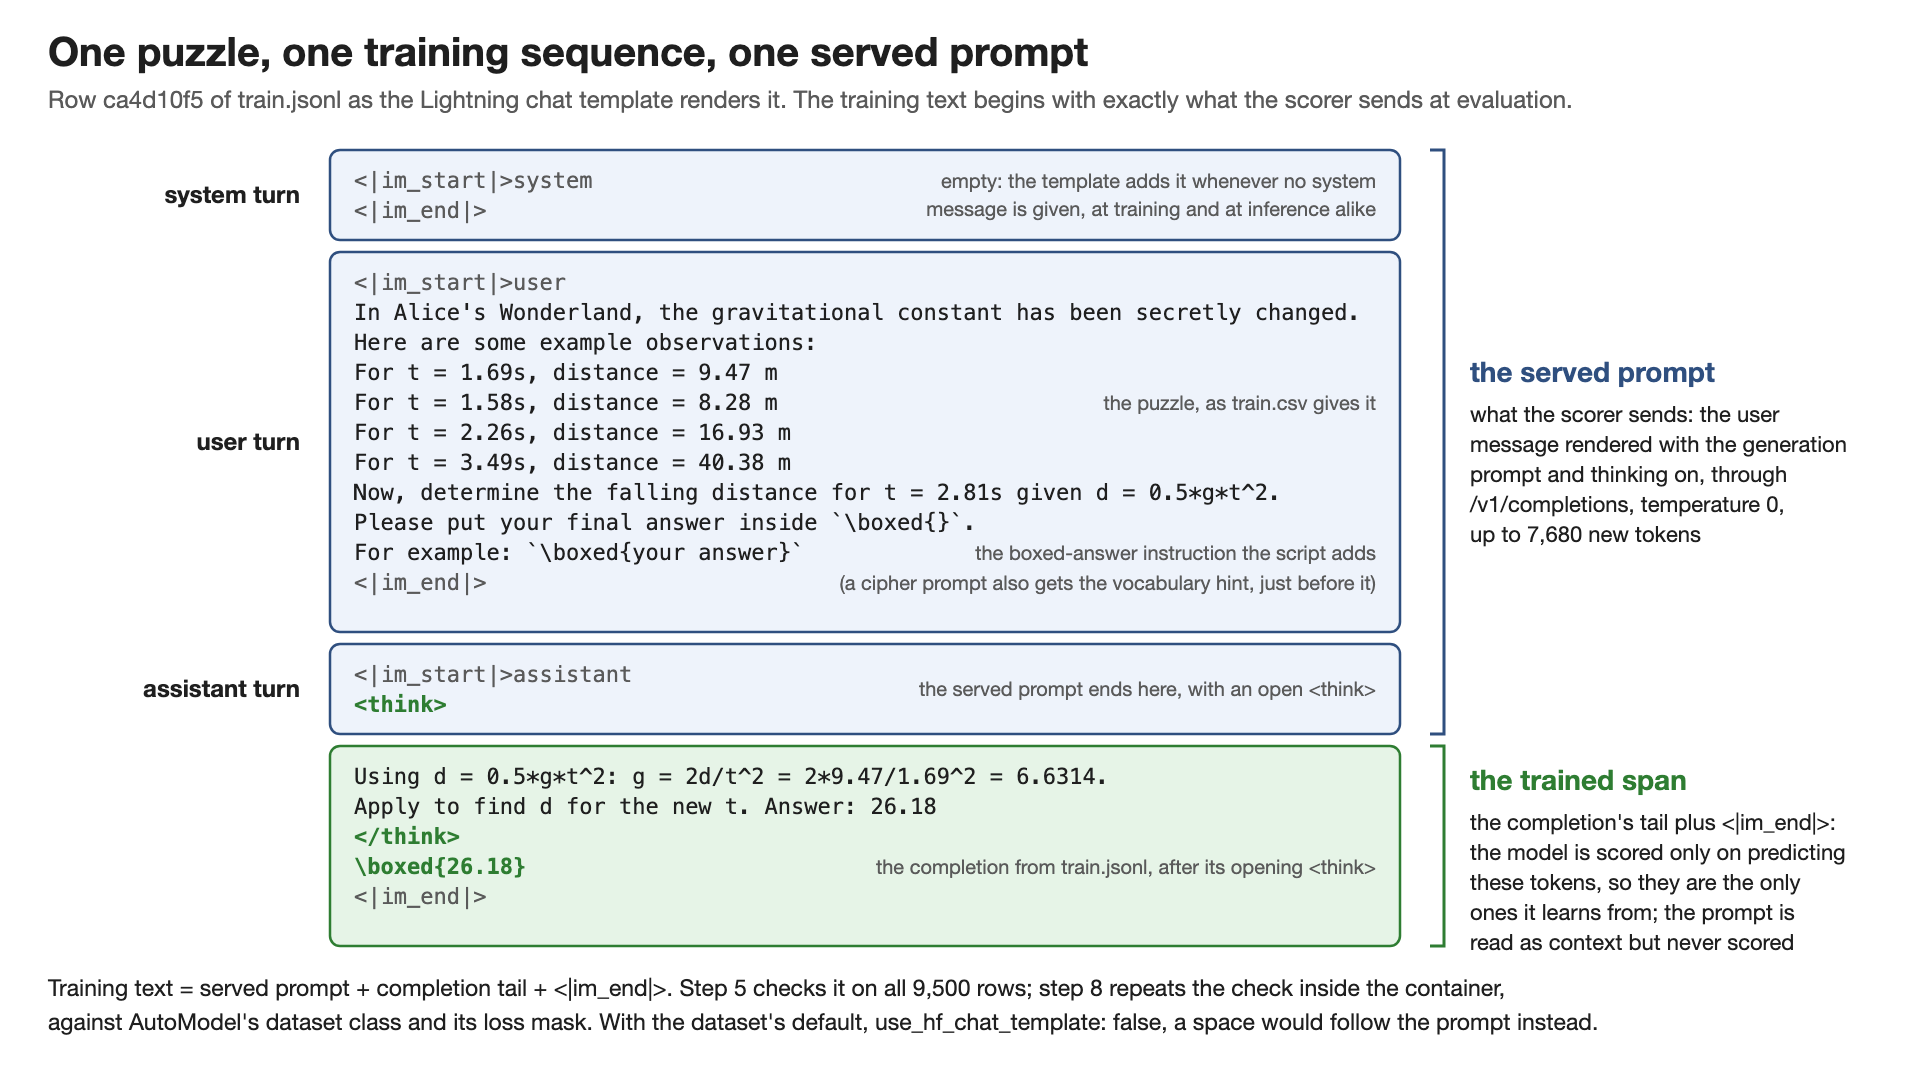
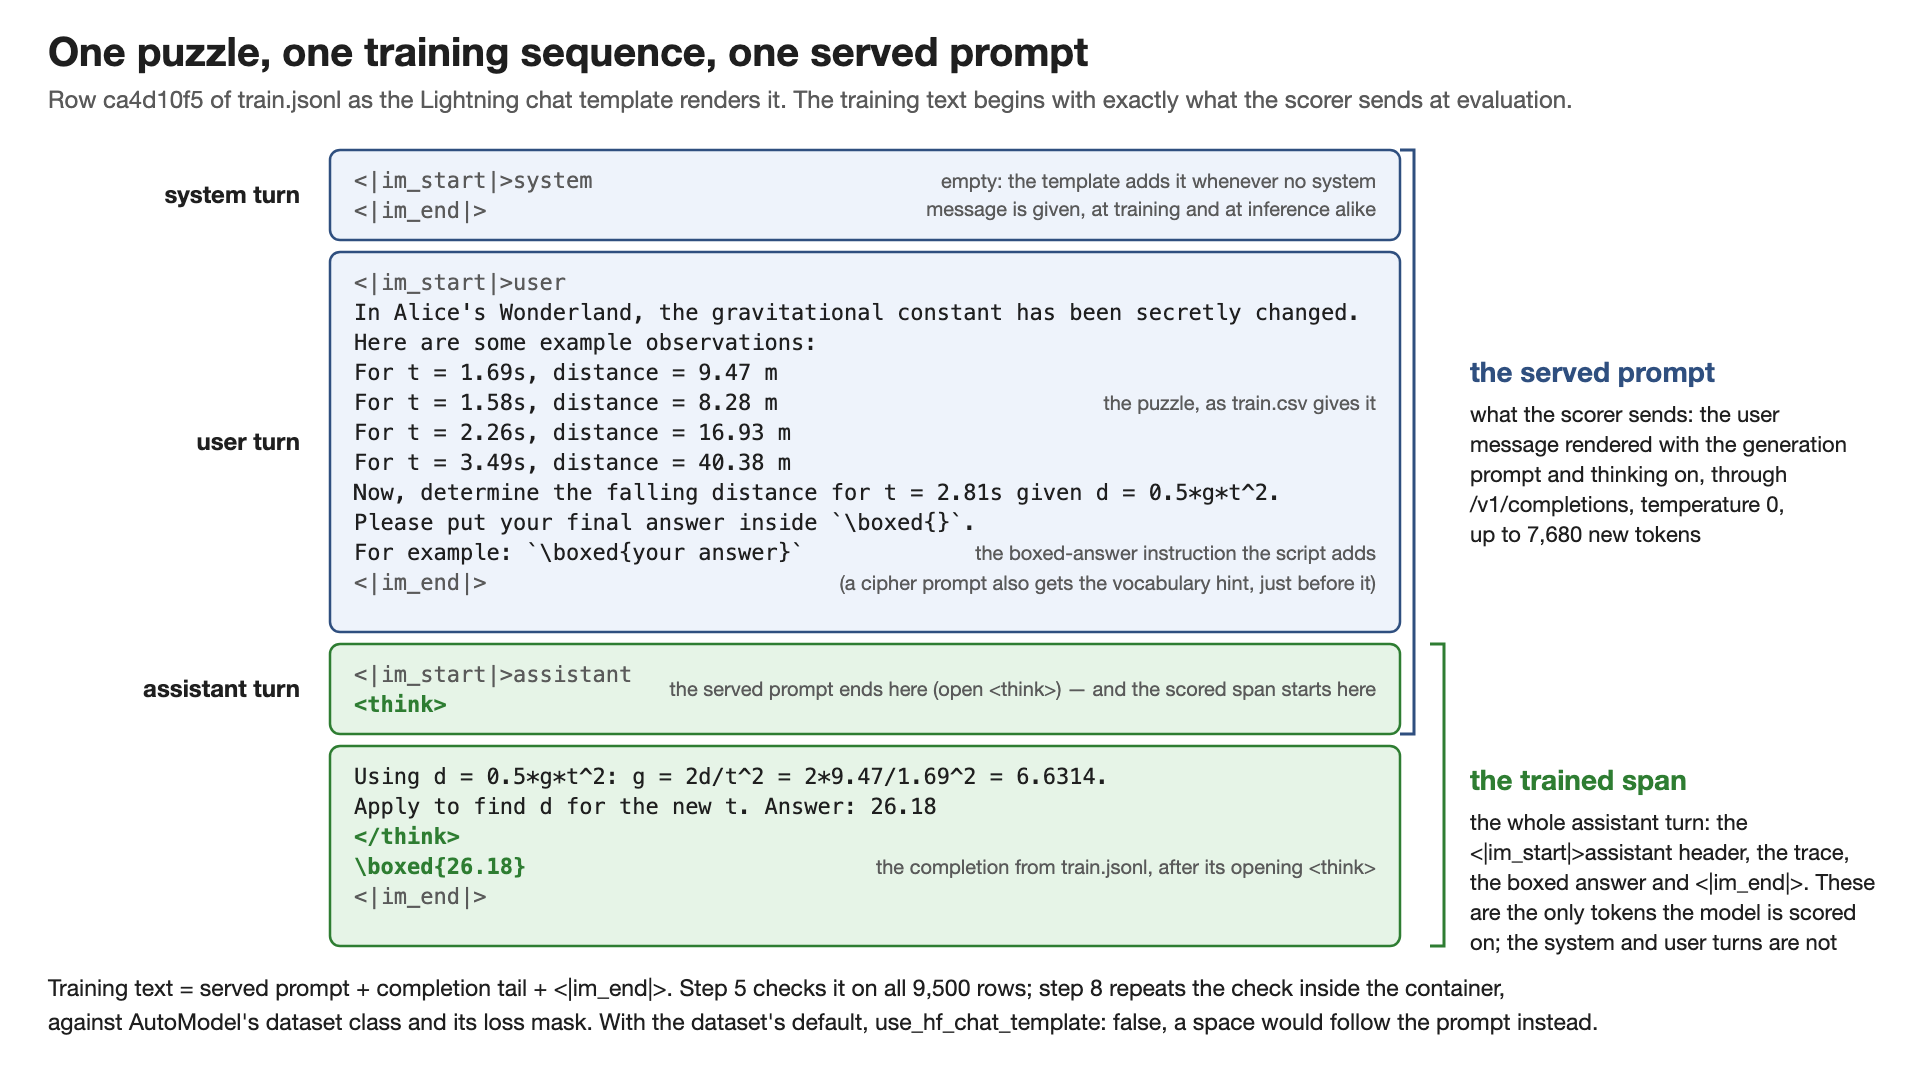
Puzzles README: fill 300-puzzle results, correct loss-span to whole assistant turn, drop step-5 HF login

Changed region(s): [[0.75, 0.7402, 0.9688, 0.8944], [0.3438, 0.586, 0.75, 0.7093]]

diff --git a/experiments/lightning-30b-lora-reasoning-puzzles-dgx-spark/assets/diagrams.py b/experiments/lightning-30b-lora-reasoning-puzzles-dgx-spark/assets/diagrams.py
@@ -149,27 +149,27 @@ def training_sequence():
           note(y2 + 38 + 30 * 9, "the boxed-answer instruction the script adds"),
           note(y2 + 38 + 30 * 10, "(a cipher prompt also gets the vocabulary hint, just before it)")]
     y3 = y2 + 380 + 12
-    b += band(y3, 90, "#eef3fb", BLUE_S, [("<|im_start|>assistant", "tok"), ("<think>", "key")], "assistant turn")
-    b += [note(y3 + 52, "the served prompt ends here, with an open <think>")]
+    b += band(y3, 90, GREEN_F, GREEN_S, [("<|im_start|>assistant", "tok"), ("<think>", "key")], "assistant turn")
+    b += [note(y3 + 52, "the served prompt ends here (open <think>) — and the scored span starts here")]
     y4 = y3 + 90 + 12
     b += band(y4, 200, GREEN_F, GREEN_S, [("Using d = 0.5*g*t^2: g = 2d/t^2 = 2*9.47/1.69^2 = 6.6314.", "text"),
                                           ("Apply to find d for the new t. Answer: 26.18", "text"),
                                           ("</think>", "key"), ("\\boxed{26.18}", "key"), ("<|im_end|>", "tok")], "")
     b += [note(y4 + 38 + 30 * 3, "the completion from train.jsonl, after its opening <think>")]
 
-    def bracket(ya, yb, color):
-        return [path(f"M{rx - 40} {ya} h 14 v {yb - ya} h -14", color, 3)]
+    def bracket(ya, yb, color, xoff=40):
+        return [path(f"M{rx - xoff} {ya} h 14 v {yb - ya} h -14", color, 3)]
 
-    b += bracket(y1, y3 + 90, BLUE_S) + bracket(y4, y4 + 200, GREEN_S)
+    b += bracket(y1, y3 + 90, BLUE_S, 70) + bracket(y3, y4 + 200, GREEN_S, 40)
     mid = (y1 + y3 + 90) / 2
     b += [text(rx, mid - 60, "the served prompt", 28, 700, BLUE_S),
           text(rx, mid - 20, "what the scorer sends: the user", 22), text(rx, mid + 10, "message rendered with the generation", 22),
           text(rx, mid + 40, "prompt and thinking on, through", 22), text(rx, mid + 70, "/v1/completions, temperature 0,", 22),
           text(rx, mid + 100, "up to 7,680 new tokens", 22)]
     b += [text(rx, y4 + 44, "the trained span", 28, 700, GREEN_T),
-          text(rx, y4 + 84, "the completion's tail plus <|im_end|>:", 22), text(rx, y4 + 114, "the model is scored only on predicting", 22),
-          text(rx, y4 + 144, "these tokens, so they are the only", 22), text(rx, y4 + 174, "ones it learns from; the prompt is", 22),
-          text(rx, y4 + 204, "read as context but never scored", 22)]
+          text(rx, y4 + 84, "the whole assistant turn: the", 22), text(rx, y4 + 114, "<|im_start|>assistant header, the trace,", 22),
+          text(rx, y4 + 144, "the boxed answer and <|im_end|>. These", 22), text(rx, y4 + 174, "are the only tokens the model is scored", 22),
+          text(rx, y4 + 204, "on; the system and user turns are not", 22)]
     yn = y4 + 200 + 50
     b += [text(48, yn, "Training text = served prompt + completion tail + <|im_end|>. Step 5 checks it on all 9,500 rows; step 8 repeats the check inside the container,", 23),
           text(48, yn + 34, "against AutoModel's dataset class and its loss mask. With the dataset's default, use_hf_chat_template: false, a space would follow the prompt instead.", 23)]

diff --git a/experiments/lightning-30b-lora-reasoning-puzzles-dgx-spark/README.md b/experiments/lightning-30b-lora-reasoning-puzzles-dgx-spark/README.md
@@ -2,7 +2,7 @@
 
 *Part of [nemotron-finetuning](../../README.md).*
 
-**LoRA-tune Nemotron 3.5 Lightning on the Kaggle reasoning puzzles on one DGX Spark with NVIDIA's single-GPU recipe, then score adapter against base on 600 held-out puzzles.** The Spark, containers and recipe are those of the [HellaSwag experiment](../lightning-30b-lora-hellaswag-dgx-spark/README.md), whose guide explains that shared setup and its failures; the steps below stand on their own.
+**LoRA-tune Nemotron 3.5 Lightning on the Kaggle reasoning puzzles on one DGX Spark with NVIDIA's single-GPU recipe, then score the adapter against the base on held-out puzzles.** The Spark, containers and recipe are those of the [HellaSwag experiment](../lightning-30b-lora-hellaswag-dgx-spark/README.md), whose guide explains that shared setup and its failures; the steps below stand on their own.
 
 > **Setup:** one DGX Spark (GB10, 128 GB) · `nvcr.io/nvidia/nemo-automodel:26.08` to train, `vllm/vllm-openai:v0.27.1` to serve · `nvidia/NVIDIA-Nemotron-3.5-Lightning-30B-A3B-BF16` · NVIDIA's single-GPU LoRA recipe, dataset swapped · a Python 3 venv on the Spark host for the data steps, no GPU.
 
@@ -25,7 +25,7 @@ All steps run on the Spark, in order.
 | 9 | [Train 200 steps with validation](#step-9-train-200-steps-with-validation) | `lightning-lora` | 45 to 90 minutes (estimate) |
 | 10 | [Free the GPU and serve base and adapter](#step-10-free-the-gpu-and-serve-base-and-adapter) | Second Spark terminal, then `vllm-lightning` | About 10 minutes |
 | 11 | [Time the scorer on 12 puzzles](#step-11-time-the-scorer-on-12-puzzles) | Spark host, executing inside `lightning-lora` | Minutes |
-| 12 | [Run the full 600-puzzle comparison](#step-12-run-the-full-600-puzzle-comparison) | Spark host, executing inside `lightning-lora` | 2 to 5 hours (estimate) |
+| 12 | [Run the 300-puzzle comparison](#step-12-run-the-300-puzzle-comparison) | Spark host, executing inside `lightning-lora` | About 3.5 hours (measured) |
 | 13 | [Inspect the generations and write up](#step-13-inspect-the-generations-and-write-up) | Spark host | 3 to 4 hours |
 
 **After the walkthrough:** [Results](#results) · [If it fails](if-it-fails.md) · [Files](#files-in-this-experiment) · [Licences](#third-party-material-and-licences) · [References](#references)
@@ -60,11 +60,11 @@ AutoModel turns each `prompt` and `completion` pair into one token sequence with
 
 The sequence has two parts. The first is the served prompt: the system turn, the user turn with the puzzle, and the start of the assistant turn, `<|im_start|>assistant` and an open `<think>`. The scorer sends exactly this text at evaluation, so training starts from what the model will see in use. The second part is the completion: the rest of the trace, `</think>`, the boxed answer and the closing `<|im_end|>`.
 
-The loss is where learning happens. At every position the model guesses the next token, and the training loss, a cross-entropy, measures how wrong that guess was. With `answer_only_loss_mask: true`, only the completion's tokens are scored. The prompt's tokens are read as context but never scored, so the adapter learns to continue a puzzle with a trace and a boxed answer, not to reproduce the puzzle. Training lowers this loss.
+The loss is where learning happens. At every position the model guesses the next token, and the training loss, a cross-entropy, measures how wrong that guess was. With `answer_only_loss_mask: true`, the scored tokens are the whole assistant turn: the fixed `<|im_start|>assistant` header and open `<think>`, then the trace, `</think>`, the boxed answer and the closing `<|im_end|>` with its newline. The system and user turns are read as context but never scored, so the adapter learns to continue a puzzle with a trace and a boxed answer, not to reproduce the puzzle. One subtlety: the scored span starts a few tokens *before* the inference boundary. The assistant header is the tail of the served prompt, yet it sits inside the loss mask, because AutoModel masks by turn, not by where generation begins; those header tokens are identical in every row, so scoring them changes nothing in practice. Training lowers this loss.
 
 ![One puzzle, one training sequence, one served prompt](assets/02-training-sequence.png)
 
-*The Data section's example, rendered. Blue: the served prompt, sent unchanged by the scorer; the model reads it but is never scored on it. Green: the completion; the model is scored only on predicting these tokens, so they are the only ones it learns from.*
+*The Data section's example, rendered. Blue bracket: the served prompt, what the scorer sends unchanged. Green: the whole assistant turn — the `<|im_start|>assistant` header, the trace, the boxed answer and `<|im_end|>` — the only tokens the model is scored on. The two overlap at the assistant header: it ends the served prompt yet is still inside the loss mask.*
 
 Step 5 checks that all 9,500 rows render this way; step 8 repeats the check inside the container.
 
@@ -140,14 +140,13 @@ cipher vocabulary hint: 77 words
 
 ### Step 5: Check the training text against the inference prefix
 
-**Run on the Spark host, in the venv.** The check needs the Lightning tokenizer: accept the model's terms on Hugging Face and log in once; the download is a few MB into `~/.cache/huggingface`.
+**Run on the Spark host, in the venv.** The check needs only the Lightning tokenizer. The model repo is public and ungated, so no Hugging Face login is required; the first run downloads about 17 MB of tokenizer files into `~/.cache/huggingface`.
 
 ```bash
-hf auth login                              # once; token from huggingface.co/settings/tokens
 python data/make_puzzle_jsonl.py --check
 ```
 
-If the containers' cache already holds the model, skip the login and read it in place: `HF_HOME=~/nemo-shared/.cache/huggingface HF_HUB_OFFLINE=1 python data/make_puzzle_jsonl.py --check` (the cache belongs to root, but reading it is fine).
+If the containers' cache already holds the tokenizer, read it in place offline instead of downloading: `HF_HOME=~/nemo-shared/.cache/huggingface HF_HUB_OFFLINE=1 python data/make_puzzle_jsonl.py --check` (the cache belongs to root, but reading it is fine).
 
 `--check` rebuilds the files, renders every row as AutoModel will (three turns through the chat template) and as the scorer will (user turn plus generation prompt), and requires the first to equal the second plus the completion and `<|im_end|>`. Expected, after the four lines of step 4 print again, in about ten seconds:
 
@@ -180,7 +179,7 @@ docker run -it \
 
 Key options: `-v ~/nemo-shared:/shared` is the mount in the tree above and `HF_HOME` keeps the model cache inside it; `--shm-size=32g` gives data loading shared memory; `OMP_NUM_THREADS=8` sets the CPU threads used when loading experts.
 
-**Inside `lightning-lora`**, download the model once (accept its OpenMDW-1.1 terms first; the container's cache is `/shared/.cache/huggingface`, so the host login from step 5 does not carry over):
+**Inside `lightning-lora`**, download the model once (accept its OpenMDW-1.1 terms first; the container's cache is `/shared/.cache/huggingface`, separate from the host cache step 5 used):
 
 ```bash
 hf auth login                 # token from huggingface.co/settings/tokens
@@ -362,18 +361,18 @@ rows = [json.loads(l) for l in open('$E/logs/compare-12-generations.jsonl')]
 for r in rows[:2]: print('==', r['model'], r['finish'], r['tokens'], 'tokens, pred', r['pred']); print(r['text'][:1200])"
 ```
 
-Multiply the 12-puzzle time by 50; expect hours, since base traces run to thousands of tokens. If that does not fit your time, use `--n 300` (50 per category) and say so in the write-up.
+Multiply the 12-puzzle time by 50; expect hours, since base traces run to thousands of tokens. The full 600 at `--concurrency 16` is roughly 14 hours; this experiment scored a balanced `--n 300 --concurrency 32` subset (50 per category) in about 3 h 20 m (step 12).
 
-### Step 12: Run the full 600-puzzle comparison
+### Step 12: Run the 300-puzzle comparison
 
-**Run on the Spark host, in the second terminal:**
+**Run on the Spark host, in the second terminal.** This experiment scored a balanced 300-puzzle subset (50 per category) at `--concurrency 32`:
 
 ```bash
-docker exec -it lightning-lora bash -c "python3 /shared/nemotron-finetuning/tools/compare_puzzles.py --n 0 --concurrency 16 \
-  --out $E/logs/compare-600.csv 2>&1 | tee $E/logs/compare-600.log"
+docker exec -it lightning-lora bash -c "python3 /shared/nemotron-finetuning/tools/compare_puzzles.py --n 300 --concurrency 32 \
+  --out $E/logs/compare-300.csv 2>&1 | tee $E/logs/compare-300.log"
 ```
 
-It prints step 11's report plus the truncation counts; `logs/` gets the per-row CSV, a `.json` summary and `-generations.jsonl`. Both models get the same prompts, so this is adapter versus base under one procedure; a result near p = 0.05 deserves a second run, since vLLM's batching can flip a few greedy answers. When done, `Ctrl-C` in the vLLM terminal stops the server.
+It prints step 11's report plus the truncation counts; `logs/` gets the per-row CSV, a `.json` summary and `-generations.jsonl`. Both models get the same prompts, so this is adapter versus base under one procedure; a result near p = 0.05 deserves a second run, since vLLM's batching can flip a few greedy answers. For all 600, pass `--n 0 --concurrency 16` (about 14 hours) and change the output names to match. When done, `Ctrl-C` in the vLLM terminal stops the server.
 
 ### Step 13: Inspect the generations and write up
 
@@ -383,7 +382,7 @@ It prints step 11's report plus the truncation counts; `logs/` gets the per-row 
 E=/shared/nemotron-finetuning/experiments/lightning-30b-lora-reasoning-puzzles-dgx-spark
 docker exec -it lightning-lora python3 -c "
 import json, statistics as st
-rows = [json.loads(l) for l in open('$E/logs/compare-600-generations.jsonl')]
+rows = [json.loads(l) for l in open('$E/logs/compare-300-generations.jsonl')]
 for m in sorted({r['model'] for r in rows}):
     rs = [r for r in rows if r['model'] == m]; toks = sorted(r['tokens'] or 0 for r in rs)
     print(m, '| boxed answer', round(sum(r['pred'] is not None for r in rs) / len(rs), 3), '| hit the limit', sum(r['finish'] == 'length' for r in rs),
@@ -391,16 +390,30 @@ for m in sorted({r['model'] for r in rows}):
 docker exec -it lightning-lora python3 -c "
 import csv, collections
 c = collections.Counter()
-for r in csv.DictReader(open('$E/logs/compare-600.csv')): c[(r['category'], r['base_ok'], r['adapter_ok'])] += 1
+for r in csv.DictReader(open('$E/logs/compare-300.csv')): c[(r['category'], r['base_ok'], r['adapter_ok'])] += 1
 for cat in sorted({k[0] for k in c}):
     print(f'{cat:10} fixed {c[(cat, \"0\", \"1\")]:3}  broke {c[(cat, \"1\", \"0\")]:3}  both right {c[(cat, \"1\", \"1\")]:3}  both wrong {c[(cat, \"0\", \"0\")]:3}')"
 ```
 
-Read a few adapter generations per category beside the base's, asking three things: does the think block repeat the training template verbatim, is the box always present, and does the base run out of tokens? Then update this folder as the [template](../_template/README.md) asks: README status and results, `configs/puzzles_lora.yaml` as run, `results/validation-loss.csv` from `checkpoints/puzzles-200/validation.jsonl`, `results/puzzles-600.csv` from the per-row CSV, and `results/README.md`.
+Read a few adapter generations per category beside the base's, asking three things: does the think block repeat the training template verbatim, is the box always present, and does the base run out of tokens? Then update this folder as the [template](../_template/README.md) asks: README status and results, `configs/puzzles_lora.yaml` as run, `results/validation-loss.csv` from `checkpoints/puzzles-200/validation.jsonl`, `results/puzzles-300.csv` from the per-row CSV, and `results/README.md`.
 
 ## Results
 
-The run's files go under `results/`.
+Trained 200 steps on one GB10 (about 62 GiB, validation loss 0.530 at step 19 to 0.091 at step 199; `LOWEST_VAL` = step 199). Scored a balanced **300 of the 600** test puzzles (50 per category), `--concurrency 32`, about 3 h 20 m. Per-row files are in `logs/`: `compare-300.csv`, `compare-300.json`, `compare-300-generations.jsonl`.
+
+**Overall:** base 0.290 to adapter 0.550, a +0.260 gain (95% CI +0.197 to +0.323), exact McNemar p < 0.001; the adapter fixed 96 answers and broke 18.
+
+| category | base | adapter |
+|---|---|---|
+| unit_conv | 0.06 | 1.00 |
+| gravity | 0.22 | 0.92 |
+| numeral | 0.98 | 1.00 |
+| bit_ops | 0.02 | 0.24 |
+| symbol | 0.10 | 0.10 |
+| cipher | 0.36 | 0.04 |
+| **all 300** | **0.29** | **0.55** |
+
+Read honestly: the base model hit the 7,680-token cap on 218 of 300 puzzles and never boxed an answer there; the adapter truncated 0 of 300. Most of the gain is length discipline, the adapter finishing and always boxing, which is what carries unit conversion and gravity from near-zero to near-perfect. The counterweight is cipher, where the adapter regressed (0.36 to 0.04): its concise, answer-aware training traces make it box a fluent but wrong guess on the one category that rewards patient decryption. Symbols stay flat, matching their thin trace coverage. The full 600-puzzle run was not needed; this result is already decisive (p well below 0.001).
 
 ## Files in this experiment
 

diff --git a/experiments/lightning-30b-lora-reasoning-puzzles-dgx-spark/if-it-fails.md b/experiments/lightning-30b-lora-reasoning-puzzles-dgx-spark/if-it-fails.md
@@ -7,9 +7,9 @@
 | `python3 -m venv` fails on `ensurepip` | `python3-venv` not installed | `sudo apt-get install -y python3-venv`; repeat step 2. |
 | `ModuleNotFoundError` for `polars` or `transformers` | venv not active | `source .venv/bin/activate` in the experiment folder. |
 | `403 Forbidden` from the Kaggle CLI | Rules not accepted, or not logged in | Accept the rules, `kaggle auth login --no-launch-browser`, or `scp` a browser download into `data/`. |
-| `401` or `GatedRepoError` in step 5 | Tokenizer download refused | Accept the model's terms on Hugging Face, then `hf auth login`. |
-| `PermissionError` under `~/nemo-shared/.cache` in step 5 | The root-owned container cache was written to | Drop `HF_HOME` and `HF_HUB_OFFLINE`; log in and download into `~/.cache/huggingface`. |
-| `PermissionError` under `~/.cache/huggingface` in step 5 | The host cache belongs to root, created by a container that mounted it or by `sudo`; neither the token nor the download can be written | `sudo chown -R "$USER:$USER" ~/.cache/huggingface`; `hf auth login`; rerun the check. |
+| `401`/`GatedRepoError` in step 5 | Rare: the repo is public and ungated, so this points to a proxy or an HF outage | Retry; if it persists, `hf auth login` with a token from huggingface.co/settings/tokens and retry. |
+| `PermissionError` under `~/nemo-shared/.cache` in step 5 | The root-owned container cache was written to | Drop `HF_HOME` and `HF_HUB_OFFLINE` so the download goes to `~/.cache/huggingface`. |
+| `PermissionError` under `~/.cache/huggingface` in step 5 | The host cache belongs to root, created by a container that mounted it or by `sudo`, so the download cannot be written | `sudo chown -R "$USER:$USER" ~/.cache/huggingface`; rerun the check. |
 | `FAILED: …` in step 5 | Wrong tokenizer or chat template | Check `--model` and that the cached template is Lightning's. |
 | Step 8 decode check fails (space after `<think>`, no `<\|im_end\|>`, prompt tokens in the loss) | The chat-template path does not match the native render on this container | Do not train. Use NVIDIA's `make_agent_chat_dataset` (DGX Station Lightning LoRA recipe): rows `{"messages": [user, assistant]}`, trace in `reasoning_content`, `\boxed{}` in `content`, `mask_reasoning_content: false`, `seq_length: 2048`; rerun the check. |
 | `num_label_tokens` of 0 in the log | A row with an empty loss mask was skipped | Fix the mask before training. |
